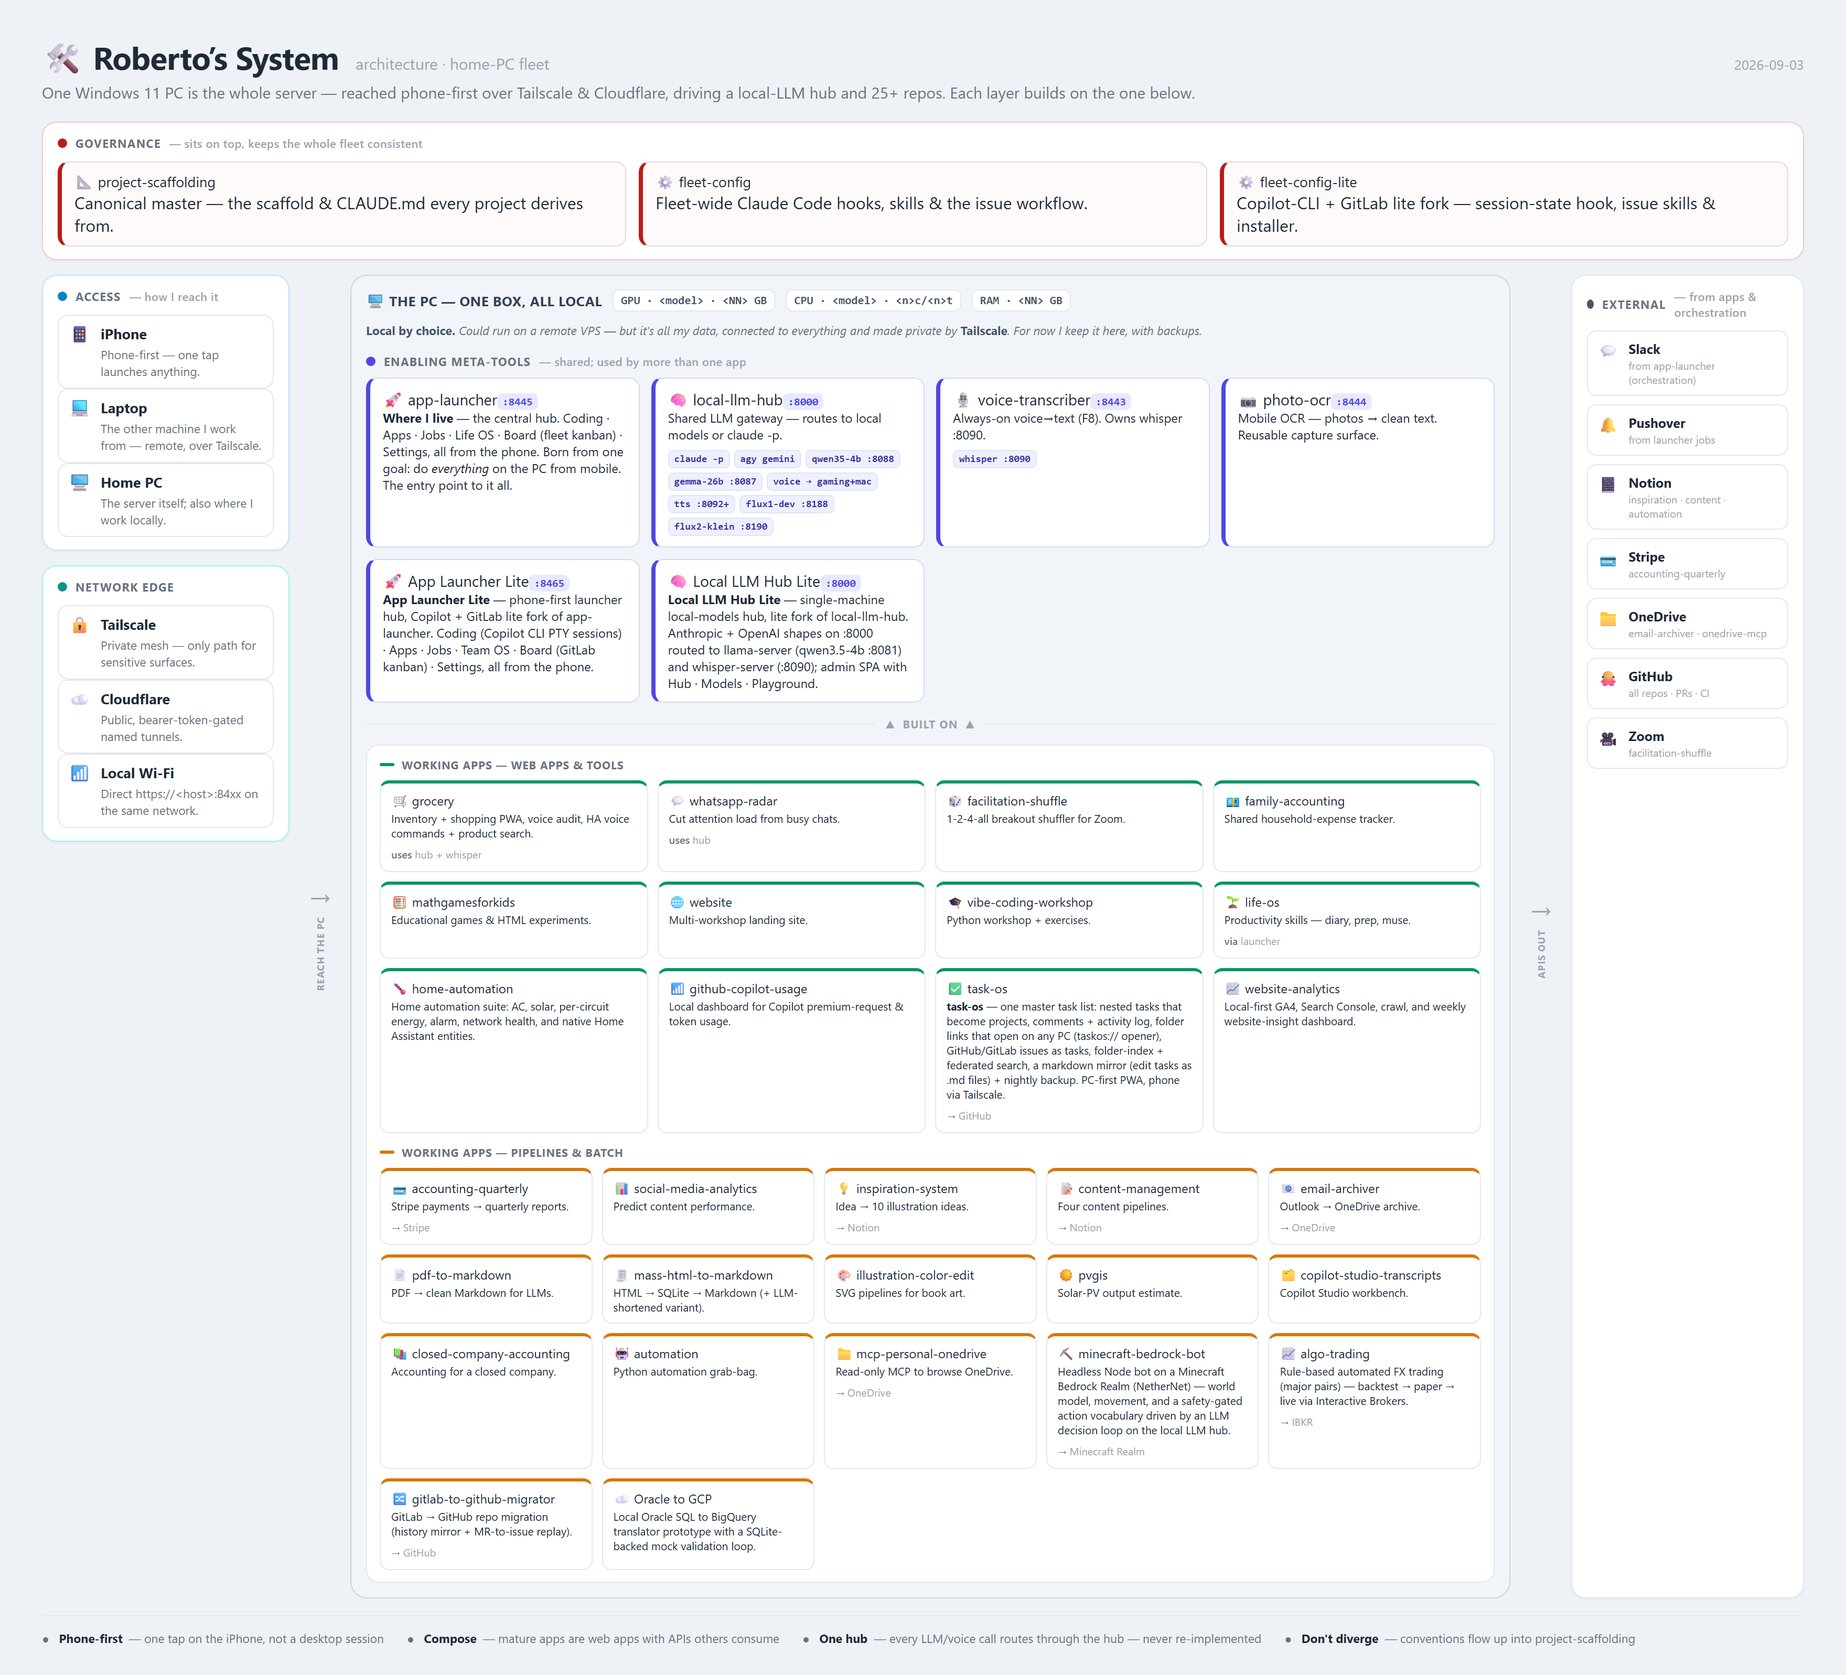
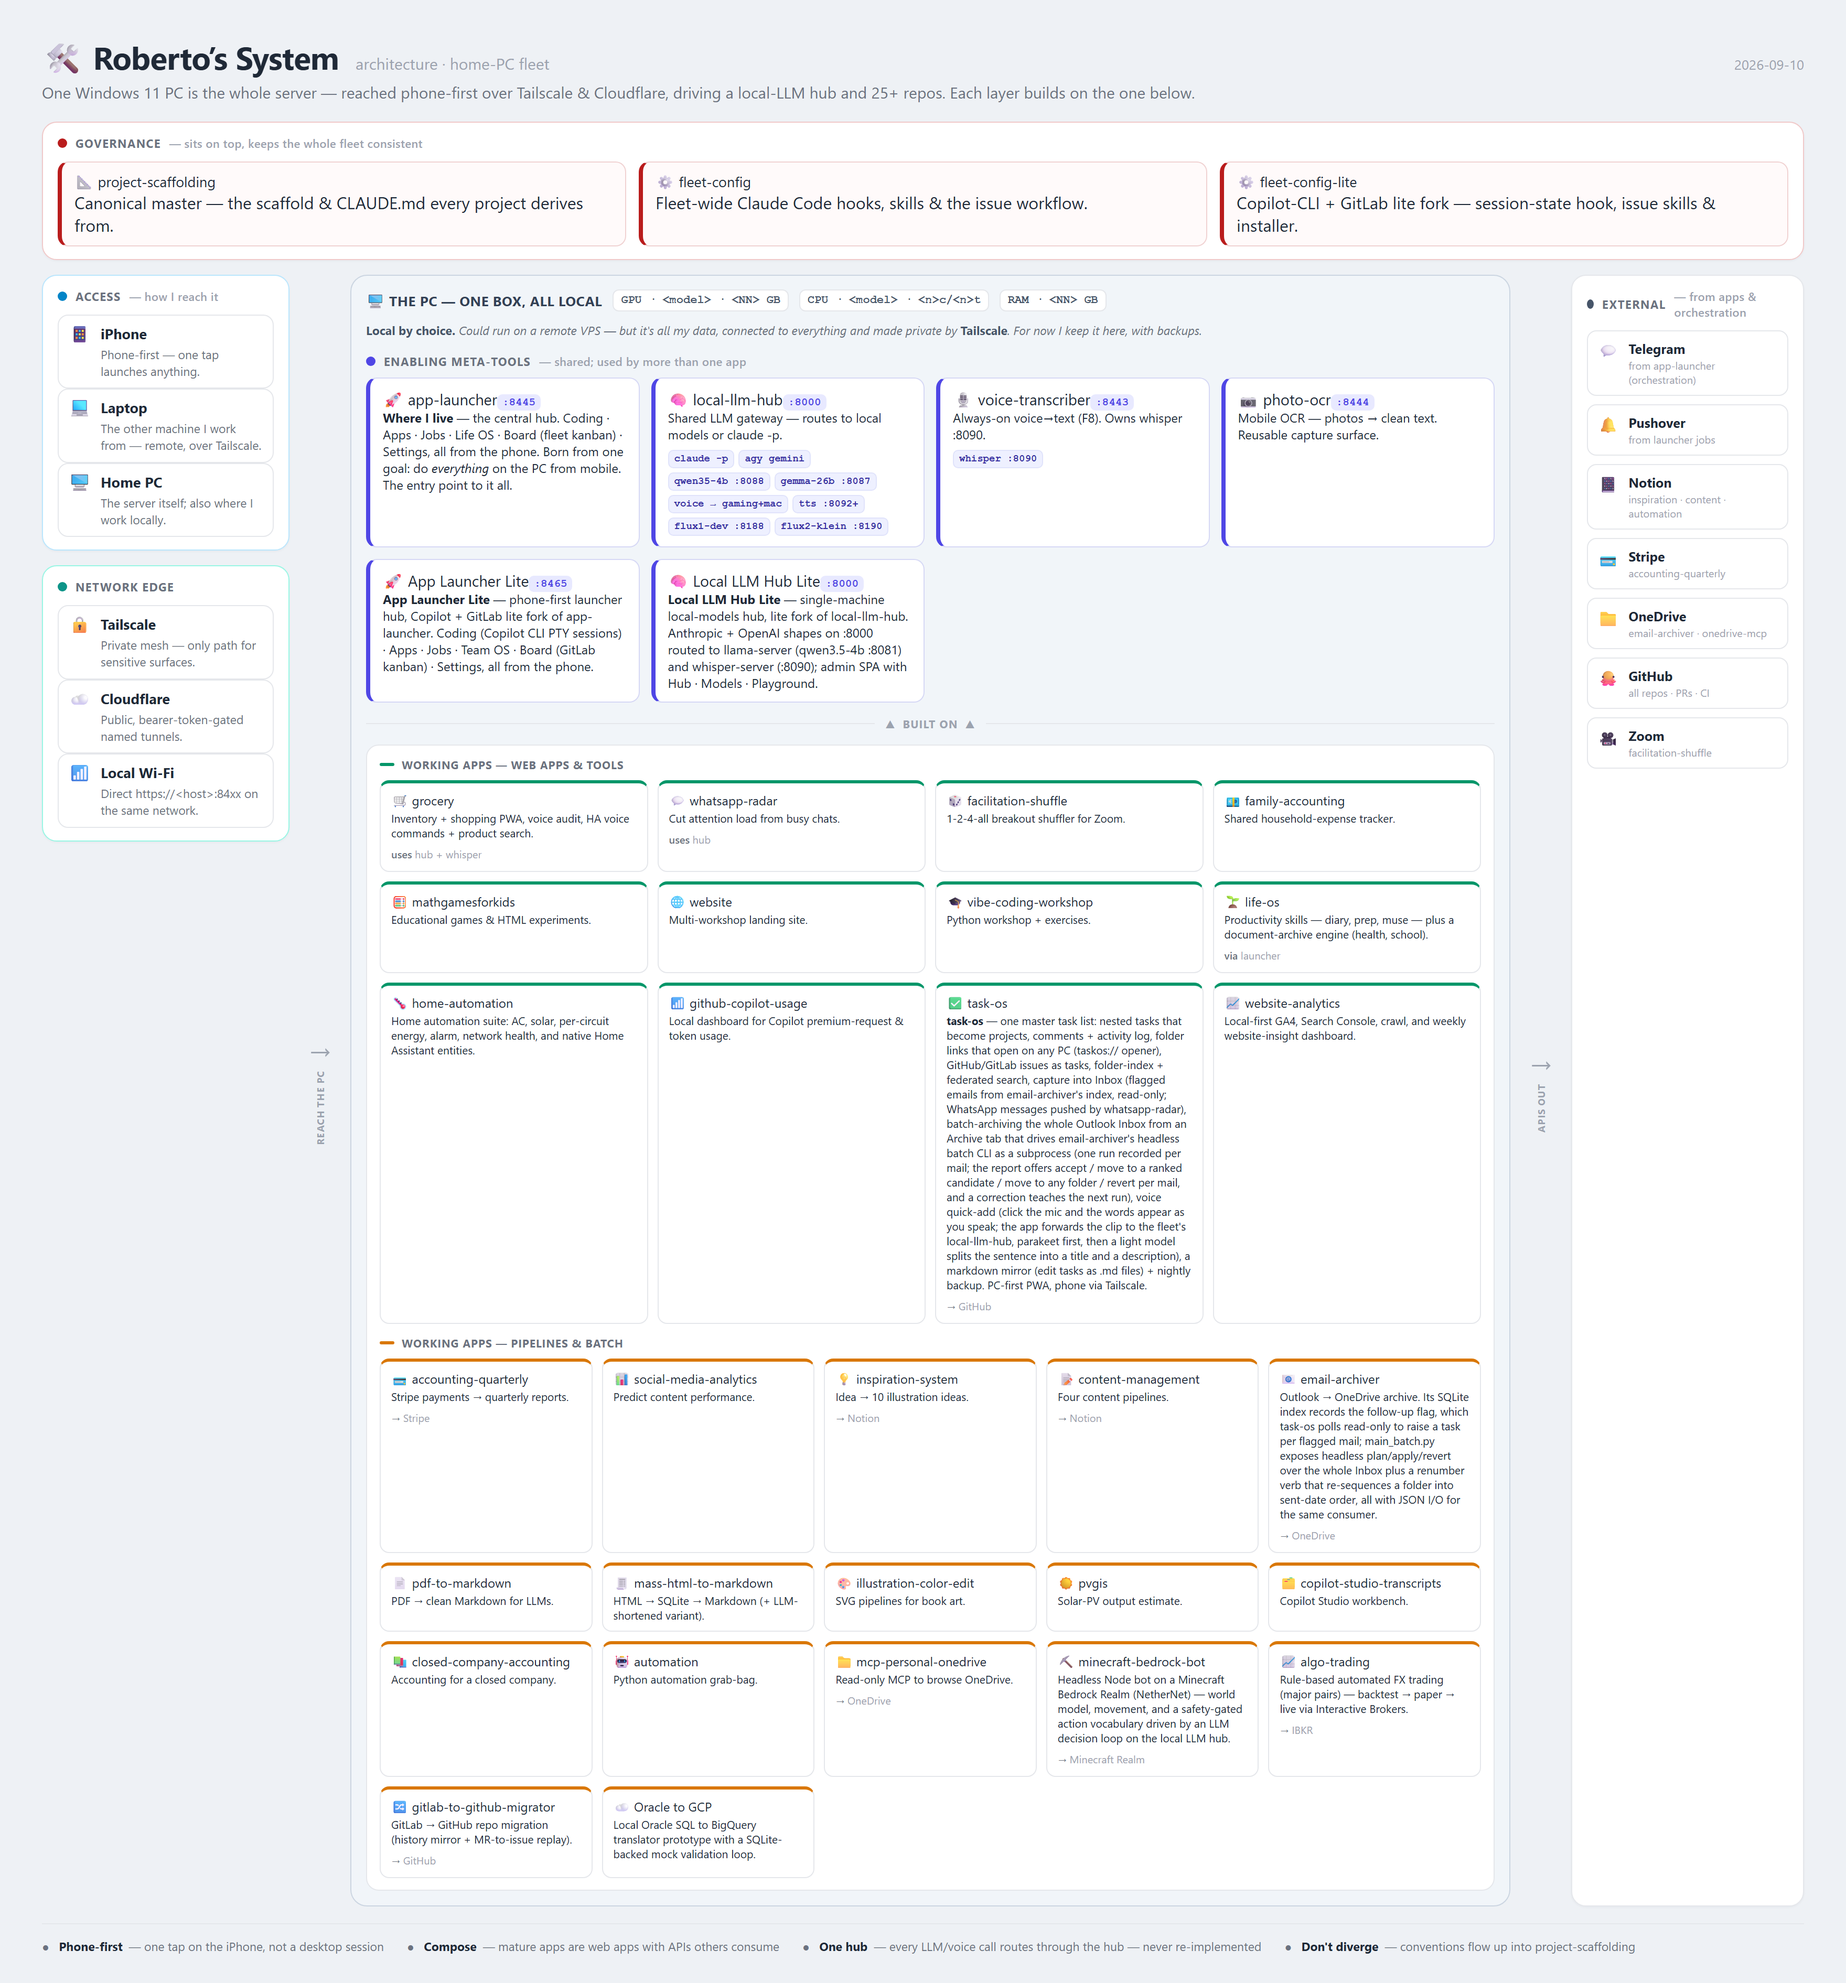
docs: refresh system map (2026-09-11)

diff --git a/architecture/fleet.data.js b/architecture/fleet.data.js
@@ -43,10 +43,10 @@ window.FLEET = {
     {"ic": "🧮", "nm": "mathgamesforkids", "ds": "Educational games & HTML experiments."},
     {"ic": "🌐", "nm": "website", "ds": "Multi-workshop landing site."},
     {"ic": "🎓", "nm": "vibe-coding-workshop", "ds": "Python workshop + exercises."},
-    {"ic": "🌱", "nm": "life-os", "ds": "Productivity skills — diary, prep, muse.", "tag": ["via", "launcher"]},
+    {"ic": "🌱", "nm": "life-os", "ds": "Productivity skills — diary, prep, muse — plus a document-archive engine (health, school).", "tag": ["via", "launcher"]},
     {"ic": "🌡", "nm": "home-automation", "port": 8447, "ds": "Home automation suite: AC, solar, per-circuit energy, alarm, network health, and native Home Assistant entities.", "chips": ["FastAPI", "PWA", "MELCloud", "Modbus", "FusionSolar", "Athom", "Tuya", "HA", "Telegram"]},
     {"ic": "📶", "nm": "github-copilot-usage", "ds": "Local dashboard for Copilot premium-request &amp; token usage."},
-    {"ic": "✅", "nm": "task-os", "port": ":8448", "ds": "<b>task-os</b> — one master task list: nested tasks that become projects, comments + activity log, folder links that open on any PC (taskos:// opener), GitHub/GitLab issues as tasks, folder-index + federated search, a markdown mirror (edit tasks as .md files) + nightly backup. PC-first PWA, phone via Tailscale.", "tag": ["→", "GitHub"]},
+    {"ic": "✅", "nm": "task-os", "port": ":8448", "ds": "<b>task-os</b> — one master task list: nested tasks that become projects, comments + activity log, folder links that open on any PC (taskos:// opener), GitHub/GitLab issues as tasks, folder-index + federated search, capture into Inbox (flagged emails from email-archiver's index, read-only; WhatsApp messages pushed by whatsapp-radar), batch-archiving the whole Outlook Inbox from an Archive tab that drives email-archiver's headless batch CLI as a subprocess (one run recorded per mail; the report offers accept / move to a ranked candidate / move to any folder / revert per mail, and a correction teaches the next run), voice quick-add (click the mic and the words appear as you speak; the app forwards the clip to the fleet's local-llm-hub, parakeet first, then a light model splits the sentence into a title and a description), a markdown mirror (edit tasks as .md files) + nightly backup. PC-first PWA, phone via Tailscale.", "tag": ["→", "GitHub"]},
     {"ic": "📈", "nm": "website-analytics", "ds": "Local-first GA4, Search Console, crawl, and weekly website-insight dashboard."}
   ],
   "pipe": [
@@ -54,7 +54,7 @@ window.FLEET = {
     {"ic": "📊", "nm": "social-media-analytics", "ds": "Predict content performance."},
     {"ic": "💡", "nm": "inspiration-system", "ds": "Idea → 10 illustration ideas.", "tag": ["→", "Notion"]},
     {"ic": "📝", "nm": "content-management", "ds": "Four content pipelines.", "tag": ["→", "Notion"]},
-    {"ic": "📧", "nm": "email-archiver", "ds": "Outlook → OneDrive archive.", "tag": ["→", "OneDrive"]},
+    {"ic": "📧", "nm": "email-archiver", "ds": "Outlook → OneDrive archive. Its SQLite index records the follow-up flag, which task-os polls read-only to raise a task per flagged mail; main_batch.py exposes headless plan/apply/revert over the whole Inbox plus a renumber verb that re-sequences a folder into sent-date order, all with JSON I/O for the same consumer.", "tag": ["→", "OneDrive"]},
     {"ic": "📄", "nm": "pdf-to-markdown", "ds": "PDF → clean Markdown for LLMs."},
     {"ic": "🧾", "nm": "mass-html-to-markdown", "ds": "HTML → SQLite → Markdown (+ LLM-shortened variant)."},
     {"ic": "🎨", "nm": "illustration-color-edit", "port": 8503, "ds": "SVG pipelines for book art."},

diff --git a/architecture/ARCHITECTURE.md b/architecture/ARCHITECTURE.md
@@ -118,7 +118,7 @@ The **work layer**, enabled by L2. Most mature ones are **web apps exposing an A
 | 🌐 **website** | Multi-workshop landing site (one template, per-workshop config). | static | — |
 | 🎓 **vibe-coding-workshop** | Hands-on Python workshop — slideshow + structured exercises. | static/notebooks | — |
 | 📶 **github-copilot-usage** | Local read-only dashboard over the usage data Copilot writes to this machine — premium requests, tokens, and prompt composition per session/model/project. | `:8377` FastAPI | — (local Copilot logs) |
-| ✅ **task-os** | One master task list: nested tasks that become projects, comments + activity log, folder links that open on any PC (`taskos://` opener), GitHub/GitLab issues as tasks, folder-index + federated search, and a markdown mirror (edit tasks as `.md`) + nightly backup. | `:8448` FastAPI+PWA | **GitHub** |
+| ✅ **task-os** | One master task list: nested tasks that become projects, comments + activity log, folder links that open on any PC (`taskos://` opener), GitHub/GitLab issues as tasks, folder-index + federated search, Inbox capture (flagged mails from email-archiver, WhatsApp pushes from whatsapp-radar), batch Outlook-Inbox archiving via email-archiver's headless CLI, voice quick-add via the hub, and a markdown mirror (edit tasks as `.md`) + nightly backup. | `:8448` FastAPI+PWA | **GitHub**, email-archiver, hub |
 | 📈 **website-analytics** | Local-first website-insight dashboard: GA4 + Search Console + site crawl → weekly report. | Streamlit | **GA4**, **Search Console** |
 
 ### Pipelines & batch (non-interactive)
@@ -129,7 +129,7 @@ The **work layer**, enabled by L2. Most mature ones are **web apps exposing an A
 | 📊 **social-media-analytics** | Analyse + predict social-content performance (2.5y of data). | pipeline | — |
 | 💡 **inspiration-system** | Paste an idea → 10 ranked illustration suggestions from the Notion archive. | pipeline | **Notion**, hub |
 | 📝 **content-management** | Four content pipelines in one repo. | pipeline | **Notion** |
-| 📧 **email-archiver** | Index + archive Outlook emails into a structured OneDrive tree. | pipeline | **Outlook → OneDrive** |
+| 📧 **email-archiver** | Index + archive Outlook emails into a structured OneDrive tree; its index (follow-up flags) and headless batch CLI (plan/apply/revert/renumber, JSON I/O) feed task-os. | pipeline | **Outlook → OneDrive** |
 | 📄 **pdf-to-markdown** | PDF → clean, token-efficient Markdown for LLM consumption. | pipeline/lib | — |
 | 🧾 **mass-html-to-markdown** | Ingest HTML comparison pages → SQLite → Markdown. | pipeline | — |
 | ☁ **oracle-to-gcp** | Oracle SQL → BigQuery translator prototype with mock dual-engine validation. | Streamlit/pipeline | hub |
@@ -139,7 +139,7 @@ The **work layer**, enabled by L2. Most mature ones are **web apps exposing an A
 | 📚 **closed-company-accounting** | Accounting tooling for a closed company. | pipeline | — |
 | 🤖 **automation** | Grab-bag of Python automation tools (audio, image, video, email, Notion, system). | scripts | Notion, etc. |
 | 📁 **mcp-personal-onedrive** | Read-only MCP server for browsing personal OneDrive from a coding agent. | MCP server | **OneDrive** |
-| 🌱 **life-os** | Personal productivity suite as Claude Code skills (diary, meeting prep, sparring, visual muse, …). Launched from the app-launcher's Life OS tab. | skills | app-launcher (L2) |
+| 🌱 **life-os** | Personal productivity suite as Claude Code skills (diary, meeting prep, sparring, visual muse, …) plus a document-archive engine (health, school). Launched from the app-launcher's Life OS tab. | skills | app-launcher (L2) |
 | ⛏ **minecraft-bedrock-bot** | Headless Node.js bot that joins a Minecraft Bedrock Realm over NetherNet (BedrockX), with reconnect/supervision. | scripts (Node) | Minecraft Realm |
 | 📈 **algo-trading** | Rule-based automated FX trading on major pairs — backtest → paper → live. | pipeline | **Interactive Brokers** |
 | 🔀 **gitlab-to-github-migrator** | One-way repo migration: history mirror + merge-request-to-issue replay. | pipeline | **GitLab → GitHub** |
